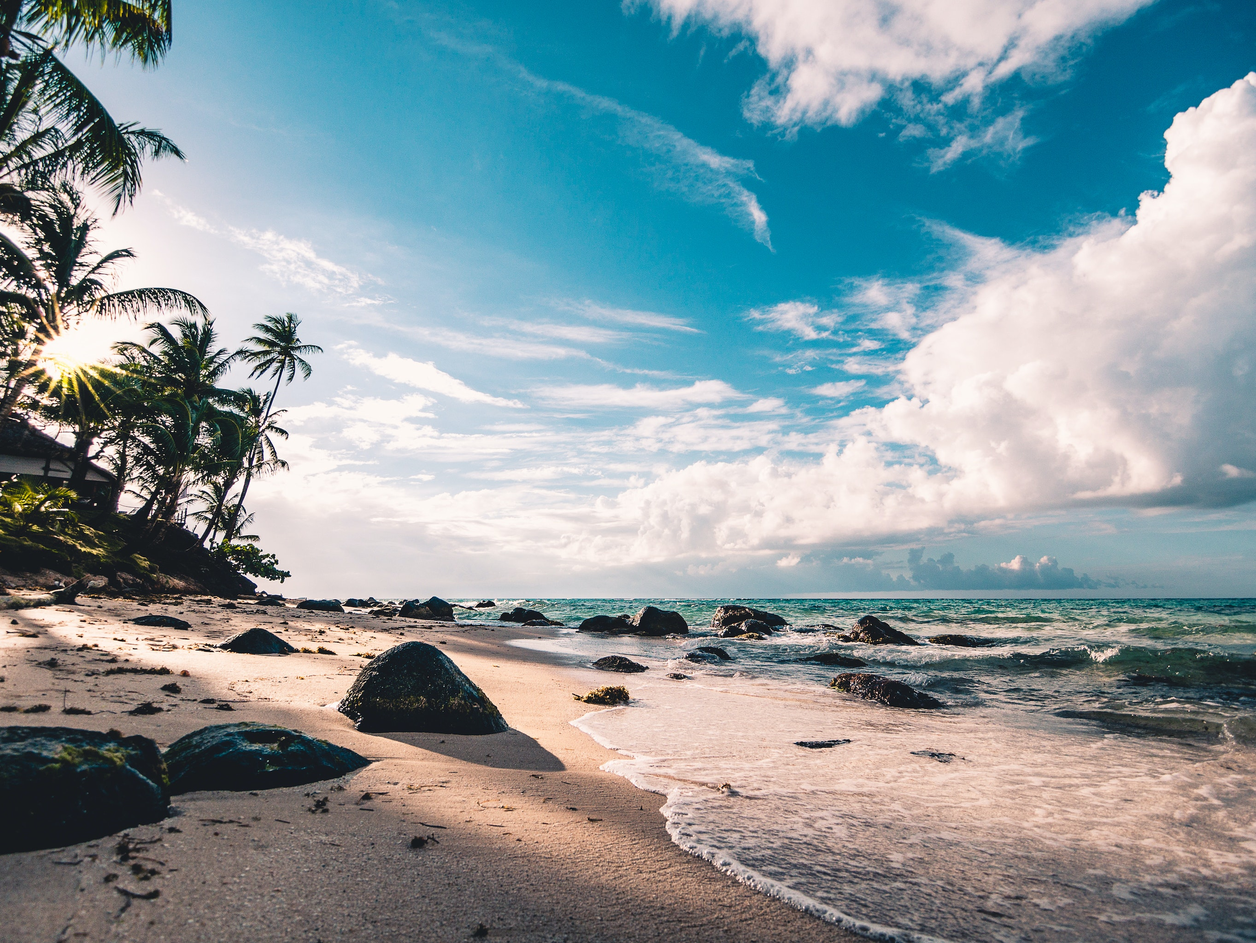
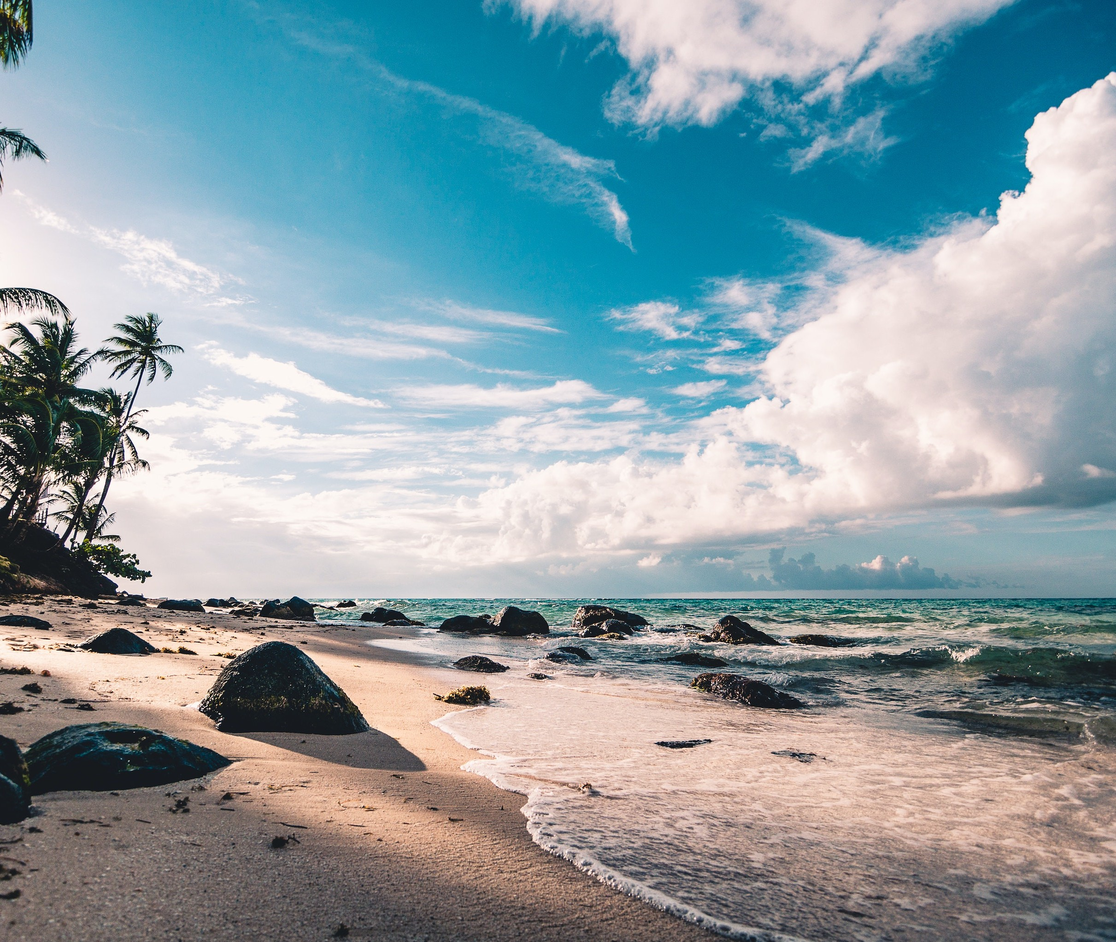
x

diff --git a/css/careers.css b/css/careers.css
@@ -9,20 +9,22 @@ html {
   overflow: hidden;
 
   position: relative;
-  width: 104%;
+  width: 100%;
   max-width: 2000px;
   margin: 0 auto;
   overflow: hidden;
 }
 #imgC {
   max-width: 2000px;
-  width: inherit;
   height: 100%;
   background-image: url("/home/stanislav/artrium/img/careers.jpg");
   background-repeat: no-repeat;
   background-size: cover;
-  background-position: -90px -250px;
+  background-position: 0px -250px;
   overflow: hidden;
+}
+img {
+  width: 105%;
 }
 #onAbove {
   position: absolute;
